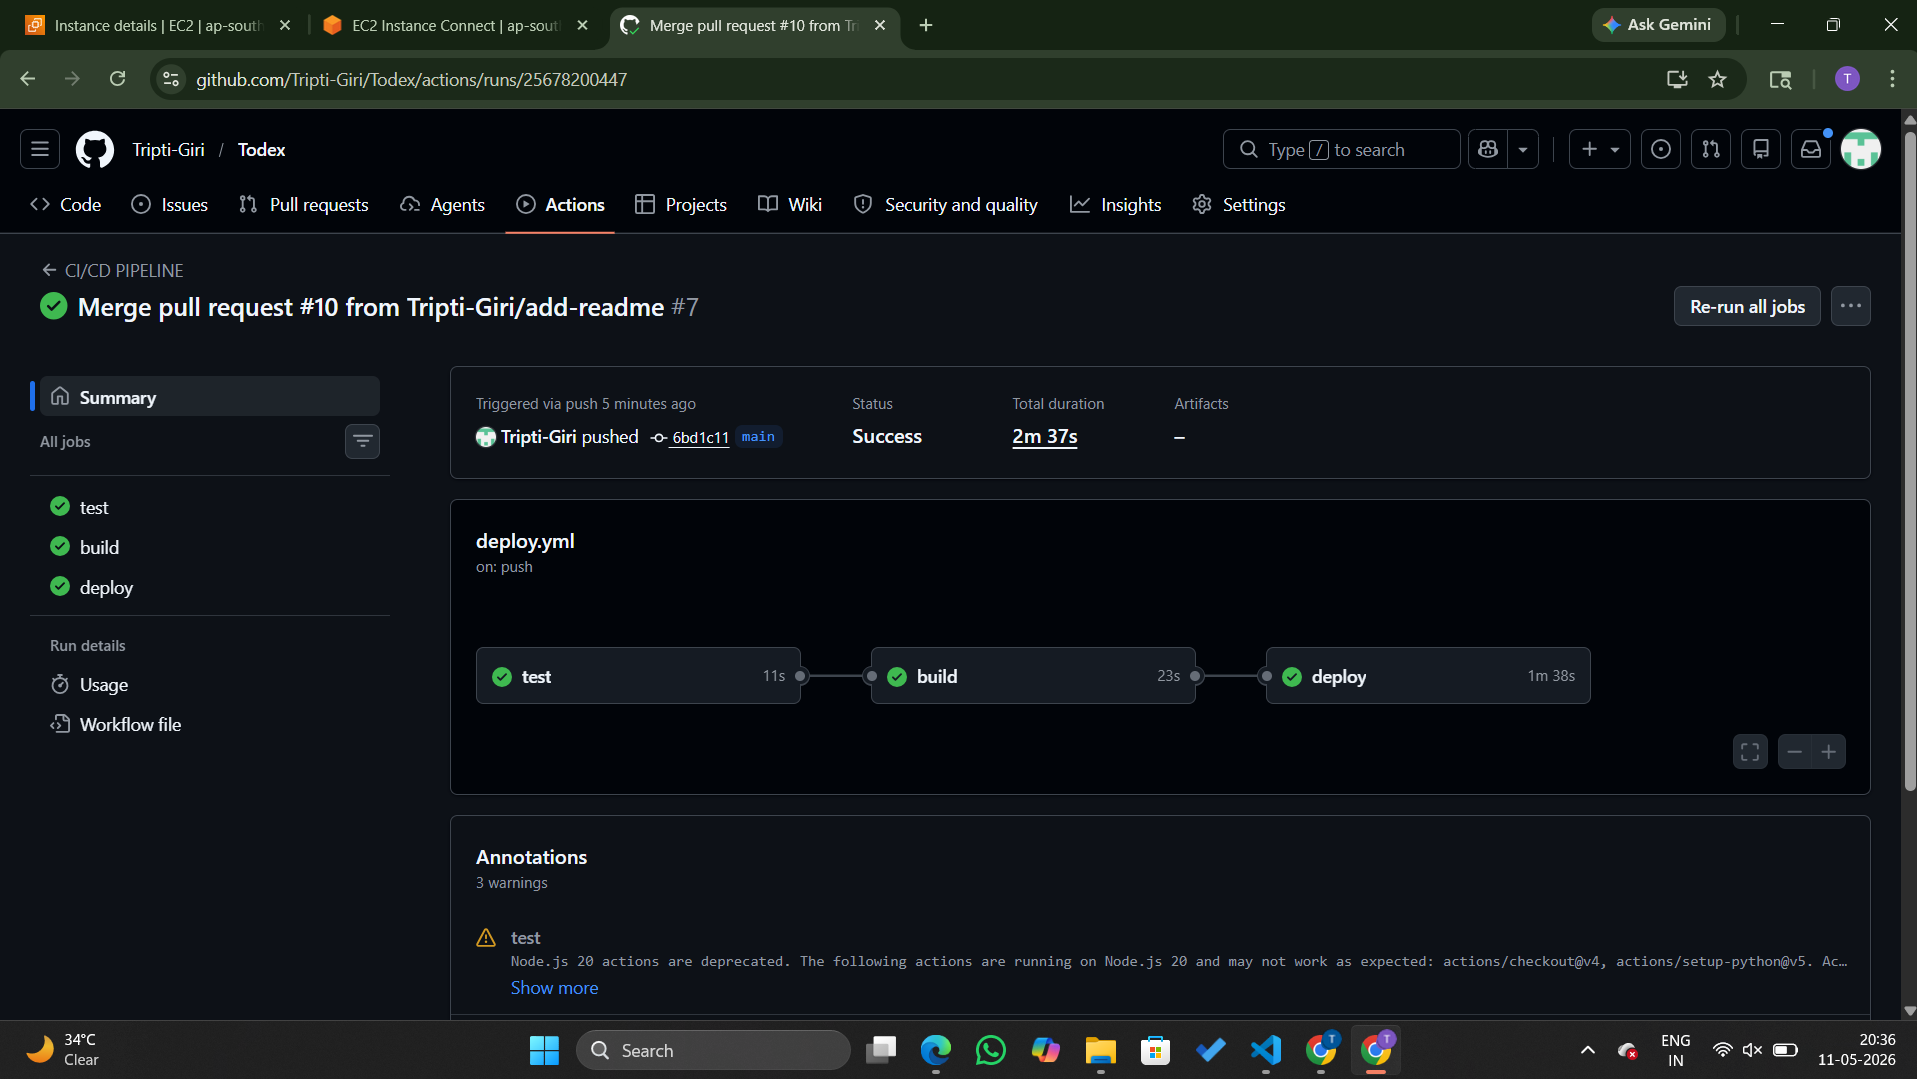
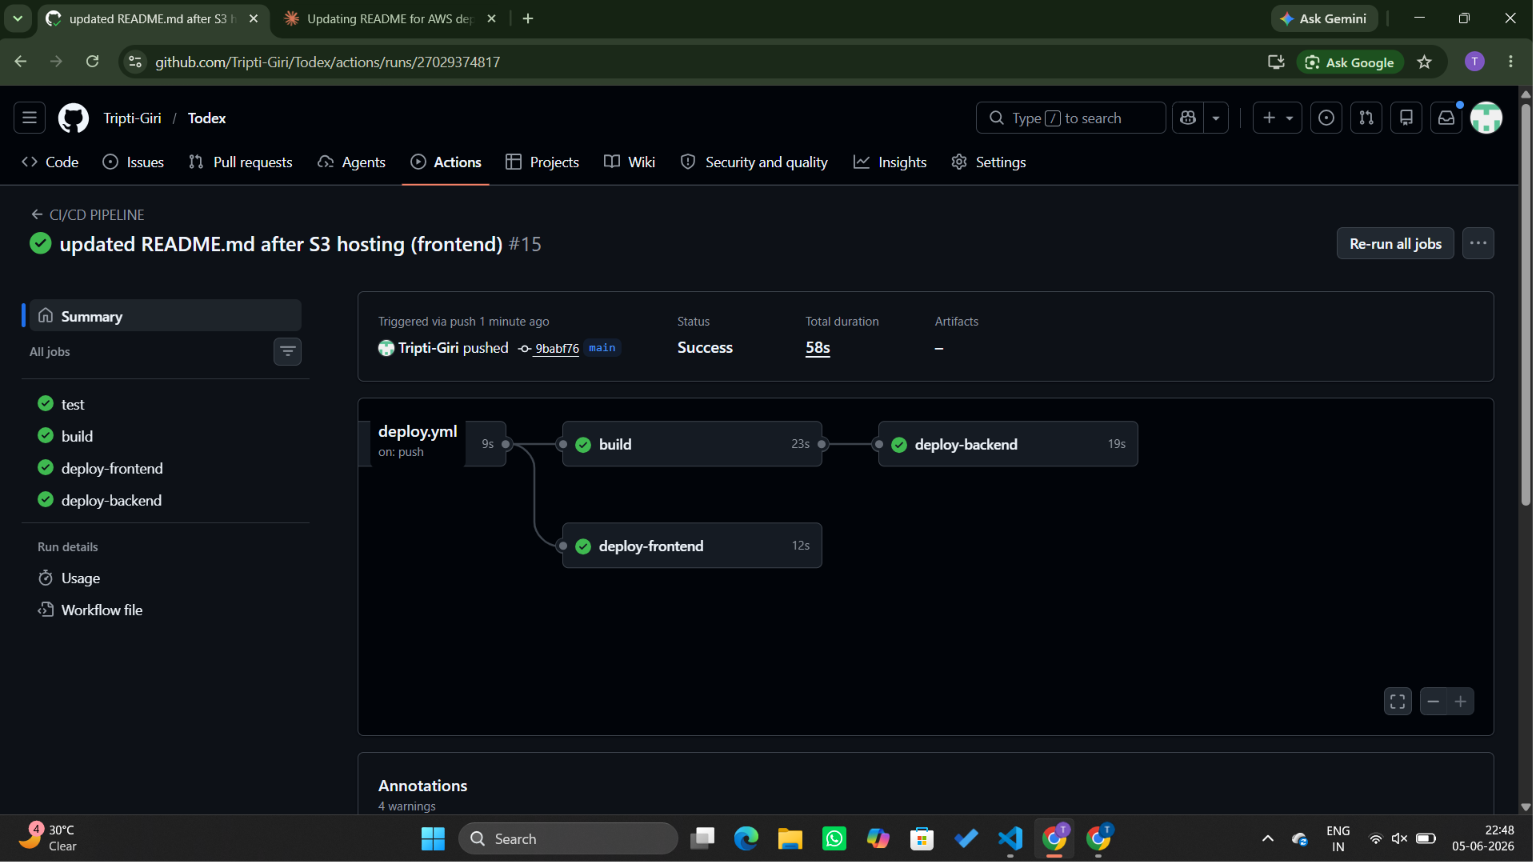
updated screenshots in README.md

diff --git a/README.md b/README.md
@@ -5,9 +5,6 @@ A production-grade todo application built with a Vanilla JS frontend, Flask REST
 **Live Frontend:** `http://todex-bucket.s3-website.ap-south-1.amazonaws.com`
 **Live API:** `http://43.204.232.15:5001/api/todos`
 
-> ⚠️ EC2 instance is stopped to avoid AWS charges.
-> To run locally, follow the [Running Locally](#running-locally) section below.
-
 ---
 
 ## Screenshots
@@ -17,7 +14,7 @@ A production-grade todo application built with a Vanilla JS frontend, Flask REST
 ![Task dashboard](images/dashboard_2.png)
 ![Task dashboard](images/dashboard3.png)
 
-### GitHub Actions Pipeline — All 3 Jobs Green
+### GitHub Actions Pipeline — All 4 Jobs Green
 ![CI/CD Pipeline](images/CICD_pipeline.png)
 
 ### EC2 Running Containers